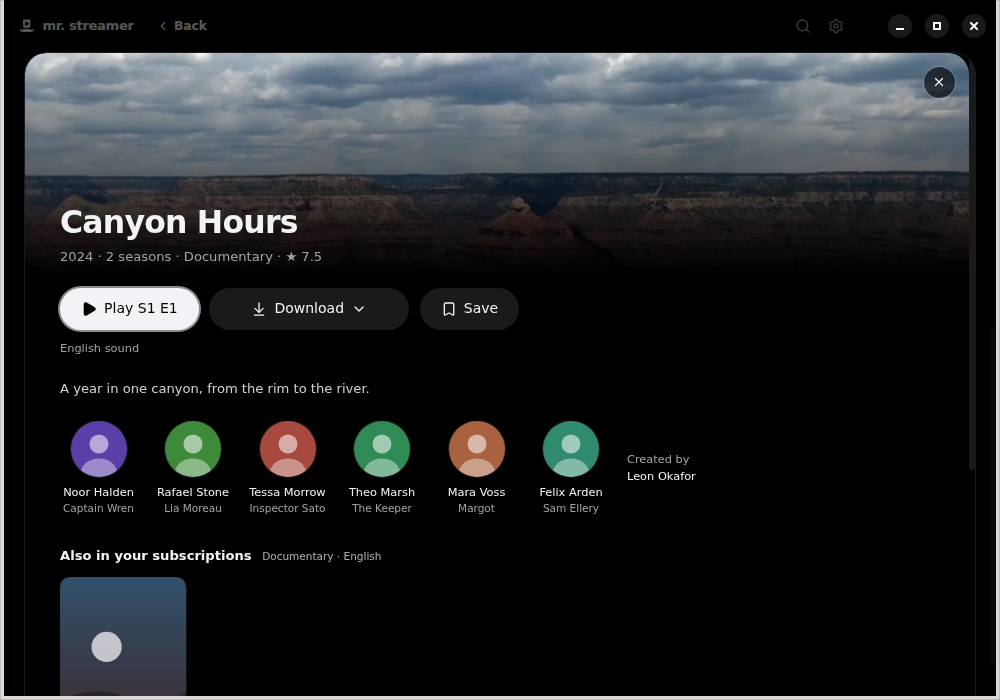
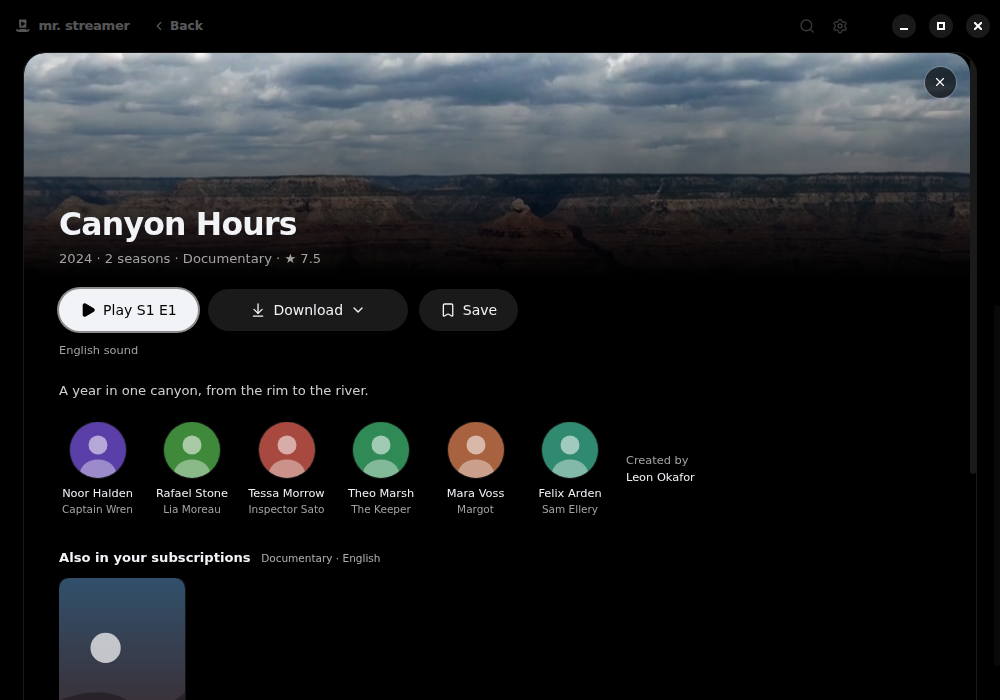
test(desktop): verify integrated lifecycle and refresh Linux captures

diff --git a/apps/desktop/test/output.test.ts b/apps/desktop/test/output.test.ts
@@ -1200,7 +1200,13 @@ it.skipIf(!hasTools)(
     });
     try {
       analytics.setForeground(true);
-      await eventually(() => expect(events).toHaveLength(2));
+      await eventually(() =>
+        expect(events.map(({ event }) => event).sort()).toEqual([
+          "app_active_day",
+          "app_version_observed",
+          "installation_observed",
+        ]),
+      );
       await connect();
       /** A title for the receiver under a run of its own, as when no window is left to ask. */
       const playRun = async (position: number) => {

diff --git a/docs/contributing/linux-listing-capture.md b/docs/contributing/linux-listing-capture.md
@@ -1,6 +1,6 @@
 # Linux listing screenshot candidates
 
-These are source-build candidates for the artwork card's desktop 0.0.19 work. They need parent integration, a fresh capture of the final dependency revision and final review before listing use. The baseline build at `e8767deb59e274347055e08a85da116efcf7dffd` reports **0.0.18**. They do not establish an installed Flatpak, native GPU, audible audio or compositor acceptance.
+These are source-build candidates for the artwork card's desktop 0.0.19 work. They were recaptured after integration at `3a008d0fbb8cc33a9f7cf363080d0dd94eb48785`, using Electron 44.9.3. The development manifest still reports **0.0.18**. They need final artwork acceptance before listing use and do not establish an installed Flatpak, native GPU, audible audio or compositor acceptance.
 
 The [Flathub quality guidelines](https://docs.flathub.org/docs/for-app-authors/metainfo-guidelines/quality-guidelines#screenshots), checked 23 October 2026, ask for unedited Linux app windows with native decoration, shadow and corners, default settings, English language tags, useful content and brief external captions. The suggested window limit is 1000 × 700, or twice that for HiDPI. Do not crop, add text, graphics or decoration after capture.
 
@@ -51,13 +51,13 @@ Captions and credits stay outside the images. Credit **NASA** for the Earth foot
 
 ## Baseline candidates, 23 October 2026
 
-The successful run is `.local/verification/linux-listing/capture-mHmknC/`. All four PNGs are 1000 × 700, with no alpha, and total 1,116,769 bytes. Their hashes equal the raw native captures. The manifest records source `e8767deb`, Electron 44.4.5, fixture/media/build hashes and external captions. Both original download hashes matched. Each full-size image was inspected. Cleanup passed for the app, profile, fixture servers, window manager and X server; the owned CDP port was closed. Earlier failed attempts remain in the evidence directory.
+The integrated run is `.local/verification/linux-listing/capture-yaYiSp/`. All four PNGs are 1000 × 700, with no alpha, and total 1,131,189 bytes. Their hashes equal the raw native captures. The manifest records source `3a008d0f`, Electron 44.9.3, fixture/media/build hashes and external captions. Both original download hashes matched. Each full-size image was inspected. Cleanup passed for the app, profile, fixture servers, window manager and X server; the owned CDP port was closed. Earlier failed attempts remain evidence.
 
 | Candidate      |   Bytes | Visible content                                                        |
 | -------------- | ------: | ---------------------------------------------------------------------- |
-| `home.png`     | 237,350 | Earth preview, favourites, Continue watching and recommendation reason |
-| `tv-guide.png` | 161,434 | Live Earth preview, selected aired programme and Play from start       |
-| `library.png`  | 257,073 | Canyon Hours details, Play/Download/Save and invented cast             |
-| `watching.png` | 460,912 | Canyon footage, active English subtitle and subtitle panel             |
+| `home.png`     | 237,111 | Earth preview, favourites, Continue watching and recommendation reason |
+| `tv-guide.png` | 160,099 | Live Earth preview, selected aired programme and Play from start       |
+| `library.png`  | 257,772 | Canyon Hours details, Play/Download/Save and invented cast             |
+| `watching.png` | 476,207 | Canyon footage, active English subtitle and subtitle panel             |
 
-The compact views retain the app's real scrolling and ellipsis. In Watching, the full-window subtitle extends across the subtitle panel's boundary; the image preserves that current rendering. Details offers another candidate if that makes Watching unsuitable. The missing compositor shadow/padding/rounding still requires native desktop recapture. These baseline screenshots have not received final 0.0.19 integration or listing acceptance.
+The compact views retain the app's real scrolling and ellipsis. In Watching, the full-window subtitle extends across the subtitle panel's boundary; the image preserves that current rendering. Details offers another candidate if that makes Watching unsuitable. The missing compositor shadow/padding/rounding still requires native desktop recapture. The integrated candidates await listing acceptance. Prefer Home, Guide and details while the existing Watching subtitle overlap remains visible.
